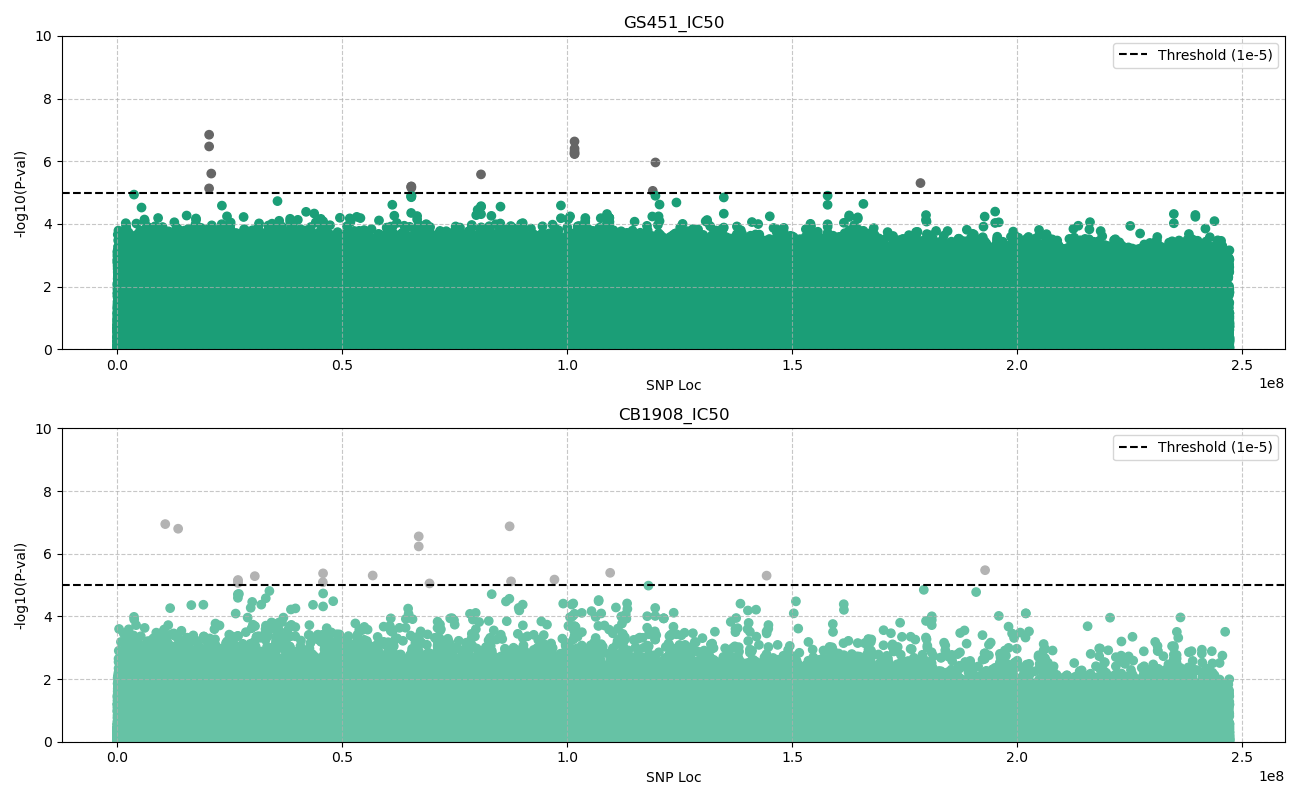
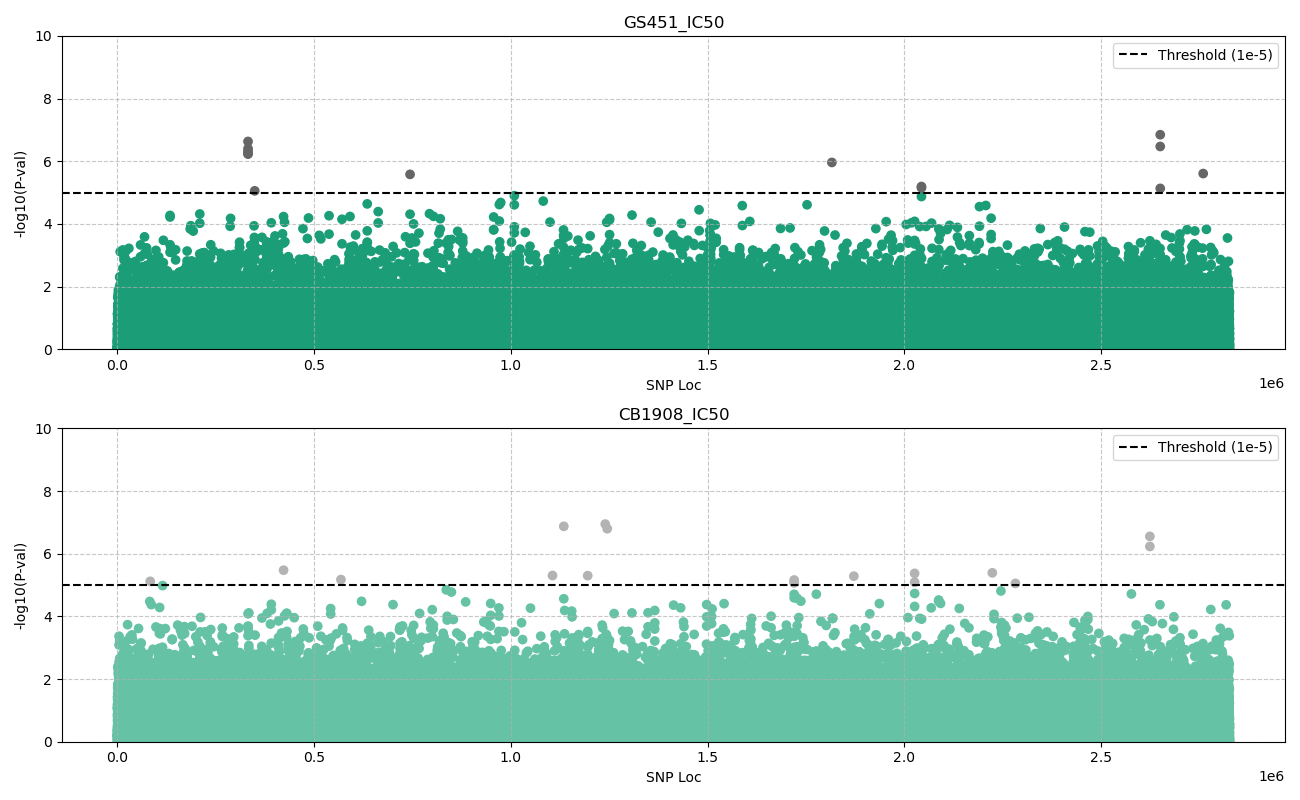
changed my manhattan plots

diff --git a/week6-homework/plotting.py b/week6-homework/plotting.py
@@ -36,73 +36,77 @@ fig2.savefig("Allele_freq_plot.png")
 gwas_G = pd.read_csv('GS451_gwas_results.assoc.linear', delim_whitespace =True)
 gwas_C = pd.read_csv('CB1908_gwas_results.assoc.linear', delim_whitespace =True)
 
+gwas_G = gwas_G.loc[gwas_G['TEST'] == 'ADD', :]
+gwas_C = gwas_C.loc[gwas_C['TEST'] == 'ADD', :]
+
 gwas_G['-log10_P'] = -(np.log10(gwas_G['P']))
 gwas_C['-log10_P'] = -(np.log10(gwas_C['P']))
 
 
-# fig3, axs = plt.subplots(2,1, figsize = [13, 8])
+fig3, axs = plt.subplots(2,1, figsize = [13, 8])
 
-# axs[0].scatter(gwas_G['BP'], gwas_G['-log10_P'], c=gwas_G['P']< 1e-5, cmap = 'Dark2')
-# axs[0].axhline(-np.log10(1e-5), color = 'black', linestyle='--', label='Threshold (1e-5)')
-# #axs[0].set_yscale('log')
-# axs[0].set_xlabel('SNP Loc')
-# axs[0].set_ylabel('-log10(P-val)')
-# axs[0].set_title('GS451_IC50')
-# axs[0].grid(True, linestyle = '--', alpha = 0.7)
-# axs[0].set_ylim(0,10)
-# axs[0].legend()
+axs[0].scatter(gwas_G.index, gwas_G['-log10_P'], c=gwas_G['P']< 1e-5, cmap = 'Dark2')
+axs[0].axhline(-np.log10(1e-5), color = 'black', linestyle='--', label='Threshold (1e-5)')
+#axs[0].set_yscale('log')
+axs[0].set_xlabel('SNP Loc')
+axs[0].set_ylabel('-log10(P-val)')
+axs[0].set_title('GS451_IC50')
+axs[0].grid(True, linestyle = '--', alpha = 0.7)
+axs[0].set_ylim(0,10)
+axs[0].legend()
 
-# axs[1].scatter(gwas_C['BP'], gwas_C['-log10_P'], c=gwas_C['P']< 1e-5 , cmap = 'Set2')
-# axs[1].axhline(-np.log10(1e-5), color = 'black', linestyle='--', label='Threshold (1e-5)')
-# #axs[1].set_yscale('log')
-# axs[1].set_xlabel('SNP Loc')
-# axs[1].set_ylabel('-log10(P-val)')
-# axs[1].set_title('CB1908_IC50')
-# axs[1].grid(True, linestyle = '--', alpha = 0.7)
-# axs[1].set_ylim(0,10)
-# axs[1].legend()
-# plt.tight_layout()
-# fig3.savefig("Manhattans.png")
+#axs[1].scatter(gwas_C['BP'], gwas_C['-log10_P'], c=gwas_C['P']< 1e-5 , cmap = 'Set2')
+axs[1].scatter(gwas_C.index, gwas_C['-log10_P'], c=gwas_C['P']< 1e-5 , cmap = 'Set2')
+axs[1].axhline(-np.log10(1e-5), color = 'black', linestyle='--', label='Threshold (1e-5)')
+#axs[1].set_yscale('log')
+axs[1].set_xlabel('SNP Loc')
+axs[1].set_ylabel('-log10(P-val)')
+axs[1].set_title('CB1908_IC50')
+axs[1].grid(True, linestyle = '--', alpha = 0.7)
+axs[1].set_ylim(0,10)
+axs[1].legend()
+plt.tight_layout()
+fig3.savefig("Manhattans.png")
 
-fig4, ax4 = plt.subplots()
-maxP = np.max(gwas_G['-log10_P'])
-rowID = gwas_G[gwas_G['-log10_P'] == maxP]
-snpID = rowID.loc[:,'SNP'].values[0]
+# fig4, ax4 = plt.subplots()
+# maxP = np.max(gwas_G['-log10_P'])
+# rowID = gwas_G[gwas_G['-log10_P'] == maxP]
+# snpID = rowID.loc[:,'SNP'].values[0]
 
-maxP2 = np.max(gwas_C['-log10_P'])
-rowID2 = gwas_C[gwas_C['-log10_P'] == maxP2]
-snpID2 = rowID2.loc[:,'SNP'].values[0]
+# maxP2 = np.max(gwas_C['-log10_P'])
+# rowID2 = gwas_C[gwas_C['-log10_P'] == maxP2]
+# snpID2 = rowID2.loc[:,'SNP'].values[0]
 
-GT_vcf = pd.read_csv('genotypes.vcf', delimiter = '\t', skiprows = 27)
-GOI = GT_vcf[GT_vcf['ID']==snpID]
+# GT_vcf = pd.read_csv('genotypes.vcf', delimiter = '\t', skiprows = 27)
+# GOI = GT_vcf[GT_vcf['ID']==snpID]
 
-POI = pd.read_csv('GS451_IC50.txt', delim_whitespace = True)
+# POI = pd.read_csv('GS451_IC50.txt', delim_whitespace = True)
 
-wt = []
-het = []
-hom = []
+# wt = []
+# het = []
+# hom = []
 
-plt_me = [wt, het, hom]
+# plt_me = [wt, het, hom]
 
-for i in range(len(GOI.values[0])):
-    if GOI.values[0][i]== '0/0':
-       wt.append(POI.iloc[i-7,2])
-    if GOI.values[0][i]== '0/1':
-       het.append(POI.iloc[i-7,2])
-    if GOI.values[0][i]== '1/1':
-       hom.append(POI.iloc[i-7,2])
+# for i in range(len(GOI.values[0])):
+#     if GOI.values[0][i]== '0/0':
+#        wt.append(POI.iloc[i-7,2])
+#     if GOI.values[0][i]== '0/1':
+#        het.append(POI.iloc[i-7,2])
+#     if GOI.values[0][i]== '1/1':
+#        hom.append(POI.iloc[i-7,2])
 
-for i in range(len(plt_me)):
-    plt_me[i] = [x for x in plt_me[i] if str(x) != 'nan']
+# for i in range(len(plt_me)):
+#     plt_me[i] = [x for x in plt_me[i] if str(x) != 'nan']
 
-ax4.boxplot(plt_me)
-ax4.set_title( "Genotypes and their phenotypes")
-ax4.set_xlabel('Genoype')
-ax4.set_ylabel('Phenotype')
-plt.savefig("Boxplot.png")
+# ax4.boxplot(plt_me)
+# ax4.set_title( "Genotypes and their phenotypes")
+# ax4.set_xlabel('Genoype')
+# ax4.set_ylabel('Phenotype')
+# plt.savefig("Boxplot.png")
 
-print(snpID)
-print(snpID2)
+# print(snpID)
+# print(snpID2)
 
 
 
